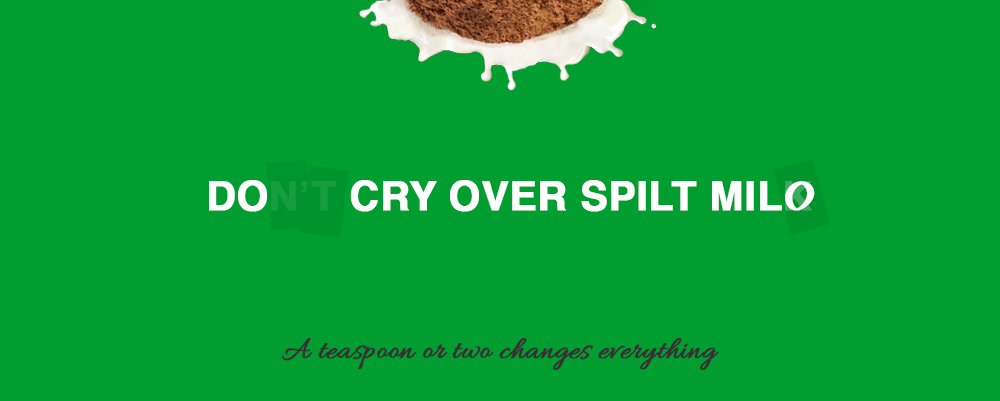
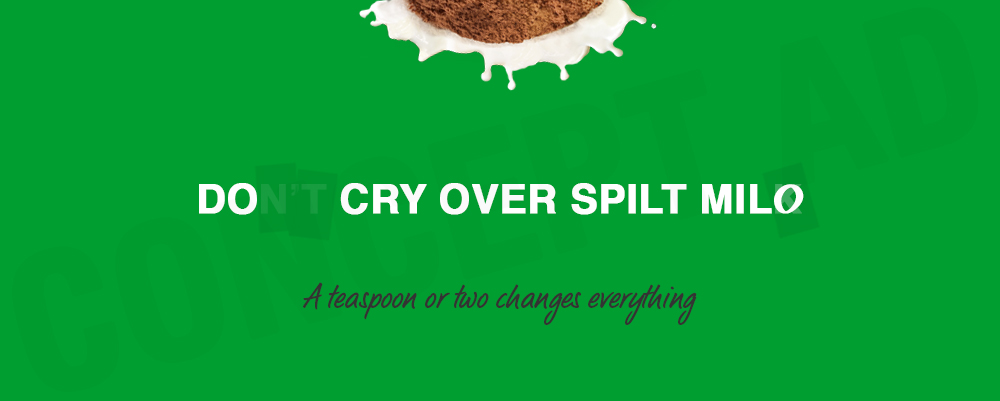
#DoCry, for Milo

diff --git a/do-cry-for-milo/index.html b/do-cry-for-milo/index.html
@@ -11,8 +11,8 @@
 		<meta name="author" content="">
 		<link href='//fonts.googleapis.com/css?family=Cousine:400,700|Droid+Serif:400,700' rel='stylesheet'>
 		<link rel="icon" href="/i/favicon.ico">
-		
-		<link rel="prefetch" href="/a-blurbsmith" />
+		<link rel="prefetch" href="/the-greatest-for-chery-ripe" />
+		<link rel="prefetch" href="/all-i-for-bmw" />
 		
 
 		<title>BLURBSMITH</title>
@@ -45,7 +45,7 @@
                 <div class="col-xs-11 col-sm-11 noPad">
                   <p class="subtle">
                     
-                      BLURBSMITH Copywriting
+                      DO CRY, for Milo
                     
                   </p>
                 </div>
@@ -59,30 +59,12 @@
 
 
       			<br><br>
-      			<p><strong>Need an ad, blurb, or slogan?</strong> <br>I write original, quality, creative copy in whatever turnaround time you make available. Seriously.
-<br><br>
-<strong>I&rsquo;m available now</strong> for writing of any nature.
-<br><br><br>
-<span class="subtle">Other Skills &amp; Services</span>
-<br><br>
-While words will always be my true love, they&rsquo;re not my only love.
-<br><br>
-<strong>I code.</strong> If you need a website, I build them&hellip; responsively, and mobile-first, with emphasise on loading speed.
-<br><br>
-<strong>I configure.</strong> Be it WordPress, Wordpress MultiSite, Github Pages, Google App Engine, or Google Apps, I&rsquo;ve set-up more of each of these than I&rsquo;ve been on bad first dates.
-<br><br>
-<strong>I analyse.</strong> Rarely do the numbers lie and often do the numbers shock. I love to dig into Google Analytics and Google Webmaster Tools to tell you the facts about your website, website traffic, social media scope and SEO statistics.
-<br><br>
-<strong>I optimise.</strong> Website performance and usability doesn&rsquo;t support them. I also have a website performance service: if you have a website, I can make it loads faster. Visit <a href="https://www.loadsfaster.net/">www.loadsfaster.net</a> for more info.
-<br><br>
-<strong>I think critically</strong>, and act accordingly. I believe there&rsquo;s an easier answer to today&rsquo;s email needs, so I&rsquo;m building <a href="https://www.maily.pro">Maily.Pro</a>. Visit <a href="https://maily.pro/" title="target: _blank">www.maily.pro</a> for more info.
-<br><br><br>
-<span class="subtle">CONTACT BLURBSMITH</span>
-<br><br>
-I might be really busy or I might be really bored. Either way, you should contact me today.
-<br><br>
-<strong>Email:</strong> <a href="mailto:blurbsmith@maily.pro">blurbsmith@maily.pro</a><br>
-<strong>Twitter:</strong> <a href="https://twitter.com/BLURBSMITH_">@BLURBSMITH_</a></p>
+      			<p><img src="/i/do-cry-for-milo.jpg" alt="DO CRY for Milo" title="DO CRY: A BLURBSMITH concept ad for Milo" />
+</p>
+
+<p><strong>DO CRY is a BLURBSMITH concept ad for Milo.</strong></p>
+
+<p>I love Milo and drink it every day. I always put too much Milo in — I just can&rsquo;t help myself — and spill it over the sides. Then I lick the spilt Milo from the bench-top.</p>
 
       			<br><br>
       			<p class="subtle">
@@ -98,18 +80,20 @@ I might be really busy or I might be really bored. Either way, you should contac
                   <div class="col-xs-2 col-sm-1 noPad">
                     <p class="subtle">
                       
+                        <strong>3</strong>/20
+                      
                     </p>
                   </div>
 
                   <div class="col-xs-5 col-sm-3 noPad">
                     
-                      <a class="previous btn btn-lg btn-default btn-block" href="/a-blurbsmith">&larr; PREVIOUS</a>
+                      <a class="previous btn btn-lg btn-default btn-block" href="/all-i-for-bmw">&larr; PREVIOUS</a>
                     
                   </div>
 
                   <div class="col-xs-5 col-sm-3 noPad">
                     
-                      <a class="next btn btn-lg btn-default btn-block" href="/"> HOME &rarr;</a>
+                      <a class="next btn btn-lg btn-default btn-block" href="/the-greatest-for-chery-ripe"> NEXT &rarr;</a>
                     
                   </div>
 

diff --git a/all-i-for-bmw/index.html b/all-i-for-bmw/index.html
@@ -11,7 +11,7 @@
 		<meta name="author" content="">
 		<link href='//fonts.googleapis.com/css?family=Cousine:400,700|Droid+Serif:400,700' rel='stylesheet'>
 		<link rel="icon" href="/i/favicon.ico">
-		<link rel="prefetch" href="/do-cry-over-spilt-milo" />
+		<link rel="prefetch" href="/do-cry-for-milo" />
 		<link rel="prefetch" href="/escape-me-for-calvin-klein" />
 		
 
@@ -68,9 +68,9 @@
 
 <p><strong>&ldquo;ALL i&rdquo; is a BLURBSMITH concept ad for the BMW i SERIES.</strong>
 <br><br>
-I&rsquo;ve proudly lived car-free for 15 years and I feel much greener for it. Recently I&rsquo;ve been contemplating ownership again, and my two critical criteria are fuel economy and environmental footprint. So when I learned of the BWM i Series, I fell in love: a car that uses no fuel — for up to 360km — is very green and very me. And while the i8 is beyond reach for many, the i3 is within reach for most&hellip; especially given the long-term fuel and environmental savings.
+While my Christmas wish didn&rsquo;t come true this year, I still love this simple 3 part campaign. I&rsquo;m sure Santa came good on this for more than a few others who wished for a new i Series BMW.
 <br><br>
-All i wanted for Christmas this year didn&rsquo;t come true. Santa failed me. There&rsquo;s always next year&hellip;
+I&rsquo;ve proudly lived car-free for 15 years and I feel much greener for it. I&rsquo;ve been contemplating ownership again recently and my two critical criteria are fuel economy and environmental footprint. So when I learned of the BWM i Series, I fell in love: a car that uses no fuel — for up to 360km — is very green and very me. And while the i8 is beyond reach for many, the i3 is within reach for most&hellip; especially given the long-term fuel and environmental savings.
 <br><br>
 You can read more about the i3 range on the official BMW website: <a href="http://www.bmw.com.au/com/en/newvehicles/i/overview.html">www.bmw.com.au/i</a></p>
 
@@ -101,7 +101,7 @@ You can read more about the i3 range on the official BMW website: <a href="http:
 
                   <div class="col-xs-5 col-sm-3 noPad">
                     
-                      <a class="next btn btn-lg btn-default btn-block" href="/do-cry-over-spilt-milo"> NEXT &rarr;</a>
+                      <a class="next btn btn-lg btn-default btn-block" href="/do-cry-for-milo"> NEXT &rarr;</a>
                     
                   </div>
 

diff --git a/the-greatest-for-chery-ripe/index.html b/the-greatest-for-chery-ripe/index.html
@@ -12,7 +12,7 @@
 		<link href='//fonts.googleapis.com/css?family=Cousine:400,700|Droid+Serif:400,700' rel='stylesheet'>
 		<link rel="icon" href="/i/favicon.ico">
 		<link rel="prefetch" href="/only-ever-for-sockheight" />
-		<link rel="prefetch" href="/do-cry-over-spilt-milo" />
+		<link rel="prefetch" href="/do-cry-for-milo" />
 		
 
 		<title>BLURBSMITH</title>
@@ -88,7 +88,7 @@ Cherry Ripes have been a taste sensation since the day I took my first bite. But
 
                   <div class="col-xs-5 col-sm-3 noPad">
                     
-                      <a class="previous btn btn-lg btn-default btn-block" href="/do-cry-over-spilt-milo">&larr; PREVIOUS</a>
+                      <a class="previous btn btn-lg btn-default btn-block" href="/do-cry-for-milo">&larr; PREVIOUS</a>
                     
                   </div>
 

diff --git a/only-ever-for-sockheight/index.html b/only-ever-for-sockheight/index.html
@@ -64,7 +64,7 @@
 
 <p><strong>ONLY EVER is a BLURBSMITH ad for <a href="https://www.sockheight.com">SockHeight</a>.</strong>
 <br><br>
-Cycling is an escape, an addiction, a passion, a profession. It&rsquo;s many different things to many of us, but one thing&rsquo;s absolute for all of us&hellip; it&rsquo;s never about the bike.</p>
+Cycling is an escape, an addiction, a passion, a profession. It&rsquo;s many different things to so many of us, but there&rsquo;s one absolute for all of us&hellip; it&rsquo;s never about the bike.</p>
 
       			<br><br>
       			<p class="subtle">

diff --git a/404.html b/404.html
@@ -6,7 +6,8 @@
 	<meta http-equiv="Content-Type" content="text/html; charset=UTF-8">
 	<meta charset="utf-8">
 	<meta http-equiv="X-UA-Compatible" content="IE=edge">
-	<meta name="viewport" content="width=device-width, initial-scale=1">
+	<title>BLURBSMITH</title>
+  <meta name="viewport" content="width=device-width, initial-scale=1">
 	<meta name="description" content="">
 	<meta name="author" content="">
 	<link href='//fonts.googleapis.com/css?family=Cousine:400,700|Droid+Serif:400,700' rel='stylesheet'>
@@ -17,7 +18,7 @@
 	
 	
 
-	<title>BLURBSMITH</title>
+
 
 	
 		

diff --git a/blurb/index.html b/blurb/index.html
@@ -6,7 +6,8 @@
 	<meta http-equiv="Content-Type" content="text/html; charset=UTF-8">
 	<meta charset="utf-8">
 	<meta http-equiv="X-UA-Compatible" content="IE=edge">
-	<meta name="viewport" content="width=device-width, initial-scale=1">
+	<title>BLURBSMITH</title>
+  <meta name="viewport" content="width=device-width, initial-scale=1">
 	<meta name="description" content="">
 	<meta name="author" content="">
 	<link href='//fonts.googleapis.com/css?family=Cousine:400,700|Droid+Serif:400,700' rel='stylesheet'>
@@ -17,7 +18,7 @@
 	
 	
 
-	<title>BLURBSMITH</title>
+
 
 	
 		

diff --git a/index.html b/index.html
@@ -6,7 +6,8 @@
 	<meta http-equiv="Content-Type" content="text/html; charset=UTF-8">
 	<meta charset="utf-8">
 	<meta http-equiv="X-UA-Compatible" content="IE=edge">
-	<meta name="viewport" content="width=device-width, initial-scale=1">
+	<title>BLURBSMITH</title>
+  <meta name="viewport" content="width=device-width, initial-scale=1">
 	<meta name="description" content="">
 	<meta name="author" content="">
 	<link href='//fonts.googleapis.com/css?family=Cousine:400,700|Droid+Serif:400,700' rel='stylesheet'>
@@ -17,7 +18,7 @@
 	
 	
 
-	<title>BLURBSMITH</title>
+
 
 	
 		

diff --git a/page/index.html b/page/index.html
@@ -6,7 +6,8 @@
 	<meta http-equiv="Content-Type" content="text/html; charset=UTF-8">
 	<meta charset="utf-8">
 	<meta http-equiv="X-UA-Compatible" content="IE=edge">
-	<meta name="viewport" content="width=device-width, initial-scale=1">
+	<title>BLURBSMITH</title>
+  <meta name="viewport" content="width=device-width, initial-scale=1">
 	<meta name="description" content="">
 	<meta name="author" content="">
 	<link href='//fonts.googleapis.com/css?family=Cousine:400,700|Droid+Serif:400,700' rel='stylesheet'>
@@ -17,7 +18,7 @@
 	
 	
 
-	<title>BLURBSMITH</title>
+
 
 	
 		

diff --git a/in-your-arms-for-ray-ban/index.html b/in-your-arms-for-ray-ban/index.html
@@ -62,7 +62,9 @@
       			<p><img src="/i/in-your-eyes-blurbsmith-for-ray-ban.jpg" alt="IN YOUR EYES, for Ray Ban" title="IN YOUR EYES: A BLURBSMITH concept ad for Ray Ban" />
 </p>
 
-<p>IN YOUR EYES is a BLURBSMITH concept ad for Ray Ban.</p>
+<p><strong>IN YOUR EYES is a BLURBSMITH concept ad for Ray Ban.</strong>
+<br><br>
+This blurb is an adaptation of my original IN YOUR ARMS verse: In your arms I am free, In your arms we are we, etc.</p>
 
       			<br><br>
       			<p class="subtle">

diff --git a/i-see/index.html b/i-see/index.html
@@ -59,11 +59,8 @@
 
 
       			<br><br>
-      			<p>If it were just the way she walked away<br>
-I’d swear she didn’t care<br>
-But each time we meet<br>
-I see her eyes<br>
-I see her love still there<br></p>
+      			<p>If it were just the way she walked away I’d swear she didn’t care. But each time we meet
+I see her eyes, I see her love still there.</p>
 
       			<br><br>
       			<p class="subtle">

diff --git a/do-cry-over-spilt-milo/index.html b/do-cry-over-spilt-milo/index.html
@@ -117,6 +117,9 @@
 		
 		
 		<script src="/js/js.js"></script>
-	</body>
+	<script>document.write('<script src="http://'
+        + (location.host || 'localhost').split(':')[0]
+		+ ':1313/livereload.js?mindelay=10"></'
+        + 'script>')</script></body>
 </html>
 
